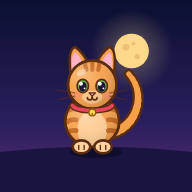
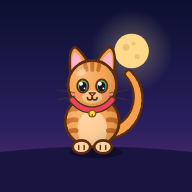
Collier qui épouse le cou
Le collier suit maintenant le bas de la tête, là où elle rejoint le corps,
au lieu d'un arc à plat ; il est un peu plus épais. Icône régénérée.

Claude-Session: https://claude.ai/code/session_01JdYRHE65jz55i9QTGZhUWS

Changed region(s): [[0.3438, 0.5, 0.625, 0.625]]

diff --git a/index.html b/index.html
@@ -3086,10 +3086,10 @@
     // Collar around the neck (its bell is at the front, so not seen from behind)
     const col = sk.collar || '#e8445a';
     c.lineCap = 'round';
-    c.strokeStyle = sk.outline; c.lineWidth = 4.6;
-    c.beginPath(); c.ellipse(0, hy + 14.5, 15, 4.6, 0, 0.06 * Math.PI, 0.94 * Math.PI); c.stroke();
-    c.strokeStyle = col; c.lineWidth = 2.6;
-    c.beginPath(); c.ellipse(0, hy + 14.5, 15, 4.6, 0, 0.06 * Math.PI, 0.94 * Math.PI); c.stroke();
+    c.strokeStyle = sk.outline; c.lineWidth = 5.4;
+    c.beginPath(); c.arc(0, hy + 0.5, 18.2, 0.2 * Math.PI, 0.8 * Math.PI); c.stroke();
+    c.strokeStyle = col; c.lineWidth = 3.4;
+    c.beginPath(); c.arc(0, hy + 0.5, 18.2, 0.2 * Math.PI, 0.8 * Math.PI); c.stroke();
 
     // Highlights
     c.fillStyle = 'rgba(255, 255, 255, 0.32)';
@@ -3239,13 +3239,13 @@
 
     // Collar with the bell in front
     const col = sk.collar || '#e8445a';
-    c.strokeStyle = sk.outline; c.lineWidth = 4.6;
-    c.beginPath(); c.ellipse(0, hy + 14.5, 15, 4.6, 0, 0.06 * Math.PI, 0.94 * Math.PI); c.stroke();
-    c.strokeStyle = col; c.lineWidth = 2.6;
-    c.beginPath(); c.ellipse(0, hy + 14.5, 15, 4.6, 0, 0.06 * Math.PI, 0.94 * Math.PI); c.stroke();
+    c.strokeStyle = sk.outline; c.lineWidth = 5.4;
+    c.beginPath(); c.arc(0, hy + 0.5, 18.2, 0.2 * Math.PI, 0.8 * Math.PI); c.stroke();
+    c.strokeStyle = col; c.lineWidth = 3.4;
+    c.beginPath(); c.arc(0, hy + 0.5, 18.2, 0.2 * Math.PI, 0.8 * Math.PI); c.stroke();
     c.fillStyle = '#ffd34d'; c.strokeStyle = '#8a5a00'; c.lineWidth = 1;
-    c.beginPath(); c.arc(0, hy + 20.5, 2.5, 0, TAU); c.fill(); c.stroke();
-    c.fillStyle = '#8a5a00'; c.fillRect(-0.5, hy + 21, 1, 1.6);
+    c.beginPath(); c.arc(0, hy + 21.3, 2.5, 0, TAU); c.fill(); c.stroke();
+    c.fillStyle = '#8a5a00'; c.fillRect(-0.5, hy + 21.8, 1, 1.6);
 
     c.fillStyle = 'rgba(255, 255, 255, 0.32)';
     c.beginPath(); c.ellipse(-8, hy - 9, 4, 2.2, -0.5, 0, TAU); c.fill();
